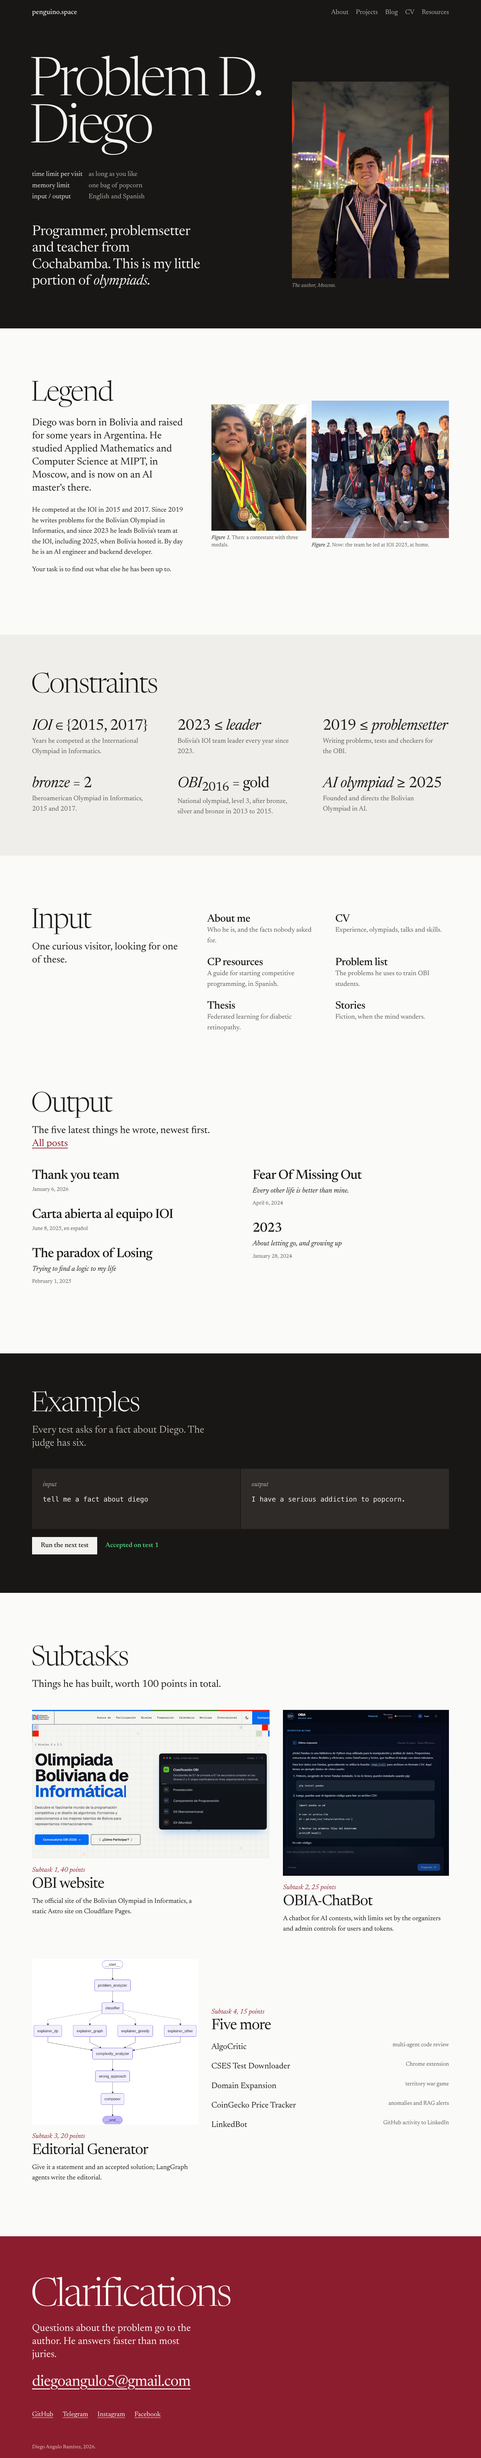
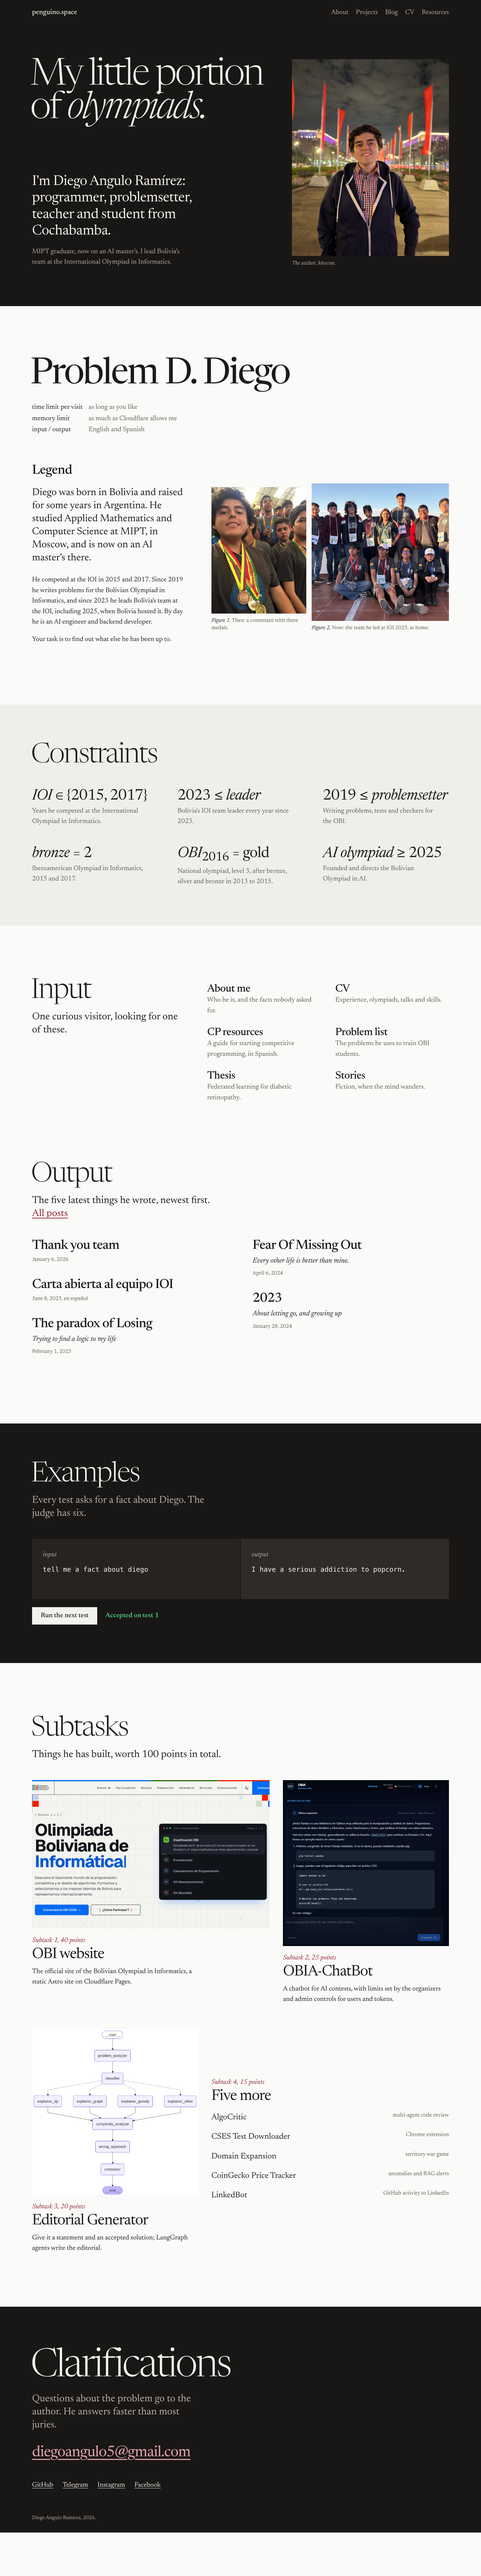
Open option D with the rotating headline and darken its footer

diff --git a/design-options/d-olimpiada.html b/design-options/d-olimpiada.html
@@ -45,19 +45,26 @@ h2.sec { font-weight: 300; font-size: clamp(44px, 1rem + 4.6vw, 104px); line-hei
 .bar nav a { text-decoration: none; color: var(--field-muted); min-height: 44px; display: inline-flex; align-items: center; }
 .bar nav a:hover { color: var(--field-ink); }
 
-.hero { display: grid; grid-template-columns: 1.5fr 1fr; gap: clamp(32px, 5vw, 88px); padding-top: clamp(48px, 7vw, 104px); padding-bottom: clamp(56px, 8vw, 120px); align-items: end; }
-.hero h1 { font-weight: 300; font-size: clamp(64px, 1rem + 10vw, 184px); line-height: .88; letter-spacing: -.045em; margin: 0 0 0 -.05em; }
-.limits { display: grid; grid-template-columns: auto 1fr; gap: 2px 18px; margin: clamp(28px, 4vw, 48px) 0 0; color: var(--field-muted); font-size: clamp(17px, 1rem + .3vw, 21px); }
-.limits dt { color: var(--field-ink); }
+.hero { display: grid; grid-template-columns: 1.5fr 1fr; gap: clamp(32px, 4vw, 56px) clamp(32px, 5vw, 88px); padding-top: clamp(48px, 7vw, 104px); padding-bottom: clamp(56px, 8vw, 120px); align-items: end; }
+.hero h1 { grid-column: 1; grid-row: 1; align-self: start; font-weight: 300; font-size: clamp(52px, 1rem + 6.6vw, 124px); line-height: .9; letter-spacing: -.045em; margin: 0 0 0 -.05em; }
+.hero h1 .rot { font-style: italic; }
+.limits { display: grid; grid-template-columns: auto 1fr; gap: 2px 18px; margin: clamp(20px, 3vw, 32px) 0 0; color: var(--muted); font-size: clamp(17px, 1rem + .3vw, 21px); }
+.limits dt { color: var(--ink); }
+.problem { padding-top: var(--gap); }
+.problem h2 { font-weight: 400; font-size: clamp(48px, 1rem + 6.4vw, 128px); line-height: .9; letter-spacing: -.04em; margin: 0 0 0 -.05em; }
+.problem .note { color: var(--muted); font-style: italic; margin: 18px 0 0; max-width: 52ch; }
+h2.sub { font-weight: 500; font-size: clamp(28px, 1rem + 1.6vw, 44px); letter-spacing: -.02em; line-height: 1; margin: 0; }
 .limits dd { margin: 0; }
-.hero__lead { font-size: clamp(26px, 1rem + 1.8vw, 44px); line-height: 1.18; letter-spacing: -.015em; margin: clamp(36px, 5vw, 64px) 0 0; max-width: 22ch; }
+.hero__lead { font-size: clamp(26px, 1rem + 1.8vw, 44px); line-height: 1.18; letter-spacing: -.015em; margin: 0; max-width: 22ch; align-self: start; }
+.hero__lead + p { color: var(--field-muted); margin: 20px 0 0; max-width: 40ch; }
 .rot { font-style: italic; }
-.hero figure { margin: 0; }
+.hero > div { grid-column: 1; grid-row: 2; align-self: end; }
+.hero figure { margin: 0; grid-column: 2; grid-row: 1 / 3; }
 .hero figure img { width: 100%; aspect-ratio: 4 / 5; object-fit: cover; object-position: 50% 28%; }
 .hero figcaption { color: var(--field-muted); font-size: 16px; font-style: italic; padding-top: 10px; }
 
 /* ---------- Legend with figures ---------- */
-.legend { display: grid; grid-template-columns: .85fr 1.3fr; gap: clamp(32px, 5vw, 88px); padding-top: var(--gap); align-items: start; }
+.legend { display: grid; grid-template-columns: .85fr 1.3fr; gap: clamp(32px, 5vw, 88px); padding-top: clamp(48px, 6vw, 88px); align-items: start; }
 .legend .text p { margin: 0 0 1em; max-width: 54ch; }
 .legend .text p:first-of-type { font-size: clamp(22px, 1rem + 1vw, 30px); line-height: 1.3; }
 .figs { display: grid; grid-template-columns: 1fr 1.45fr; gap: 16px; align-items: end; margin-top: clamp(0px, 4vw, 64px); }
@@ -132,13 +139,13 @@ h2.sec { font-weight: 300; font-size: clamp(44px, 1rem + 4.6vw, 104px); line-hei
 .t4 li a:hover { color: var(--accent); }
 
 /* ---------- Clarifications ---------- */
-.close { background: var(--accent); color: var(--accent-ink); margin-top: var(--gap); padding: clamp(64px, 9vw, 128px) 0 32px; }
+.close { background: var(--field); color: var(--field-ink); margin-top: var(--gap); padding: clamp(64px, 9vw, 128px) 0 32px; }
 .close h2 { font-weight: 300; font-size: clamp(48px, 1rem + 7vw, 150px); line-height: .9; letter-spacing: -.045em; margin: 0 0 0 -.04em; }
-.close p { font-size: clamp(22px, 1rem + 1vw, 30px); line-height: 1.3; max-width: 30ch; margin: 24px 0 0; }
-.close .mail { display: inline-block; margin-top: 28px; font-size: clamp(24px, 1rem + 2vw, 48px); letter-spacing: -.02em; }
+.close p { color: var(--field-muted); font-size: clamp(22px, 1rem + 1vw, 30px); line-height: 1.3; max-width: 30ch; margin: 24px 0 0; }
+.close .mail { color: #e8a7b2; display: inline-block; margin-top: 28px; font-size: clamp(24px, 1rem + 2vw, 48px); letter-spacing: -.02em; }
 .close ul { list-style: none; padding: 0; margin: 40px 0 0; display: flex; flex-wrap: wrap; gap: 0 28px; }
 .close ul a { display: inline-flex; min-height: 44px; align-items: center; }
-.close small { display: block; margin-top: 64px; opacity: .8; font-size: 15px; }
+.close small { display: block; margin-top: 64px; color: var(--field-muted); font-size: 15px; }
 
 /* ---------- Entrances (content stays visible without script) ---------- */
 .js [data-in] { opacity: 0; transform: translateY(24px); transition: opacity .7s var(--ease), transform .7s var(--ease); }
@@ -146,6 +153,7 @@ h2.sec { font-weight: 300; font-size: clamp(44px, 1rem + 4.6vw, 104px); line-hei
 
 @media (max-width: 900px) {
   .hero, .legend, .input { grid-template-columns: 1fr; }
+  .hero h1, .hero > div, .hero figure { grid-column: 1; grid-row: auto; }
   .hero figure { max-width: 340px; }
   .cons { grid-template-columns: 1fr 1fr; }
   .posts { columns: 1; }
@@ -171,23 +179,28 @@ h2.sec { font-weight: 300; font-size: clamp(44px, 1rem + 4.6vw, 104px); line-hei
   </header>
 
   <section class="wrap hero" aria-labelledby="title">
+    <h1 id="title">My little portion<br>of <span class="rot" data-rotate='["Internet.","Bolivia.","olympiads.","thoughts.","pizza."]'>Internet.</span></h1>
     <div>
-      <h1 id="title">Problem D.<br>Diego</h1>
-      <dl class="limits">
-        <dt>time limit per visit</dt><dd>as long as you like</dd>
-        <dt>memory limit</dt><dd>one bag of popcorn</dd>
-        <dt>input / output</dt><dd>English and Spanish</dd>
-      </dl>
-      <p class="hero__lead">Programmer, problemsetter and teacher from Cochabamba. This is my little portion of <span class="rot" data-rotate='["Internet.","Bolivia.","olympiads.","thoughts.","pizza."]'>Internet.</span></p>
+      <p class="hero__lead">I'm Diego Angulo Ramírez: programmer, problemsetter, teacher and student from Cochabamba.</p>
+      <p>MIPT graduate, now on an AI master's. I lead Bolivia's team at the International Olympiad in Informatics.</p>
     </div>
     <figure><img src="../assets/img/diego_prime.jpg" alt="Diego in Moscow at night" width="960" height="1280"><figcaption>The author, Moscow.</figcaption></figure>
   </section>
 </div>
 
 <main>
+  <section class="wrap problem" aria-labelledby="h-problem">
+    <h2 id="h-problem" data-in>Problem D. Diego</h2>
+    <dl class="limits" data-in>
+      <dt>time limit per visit</dt><dd>as long as you like</dd>
+      <dt>memory limit</dt><dd>as much as Cloudflare allows me</dd>
+      <dt>input / output</dt><dd>English and Spanish</dd>
+    </dl>
+  </section>
+
   <section class="wrap legend" aria-labelledby="h-legend">
     <div class="text" data-in>
-      <h2 class="sec" id="h-legend">Legend</h2>
+      <h2 class="sub" id="h-legend">Legend</h2>
       <p style="margin-top: 28px">Diego was born in Bolivia and raised for some years in Argentina. He studied Applied Mathematics and Computer Science at MIPT, in Moscow, and is now on an AI master's there.</p>
       <p>He competed at the IOI in 2015 and 2017. Since 2019 he writes problems for the Bolivian Olympiad in Informatics, and since 2023 he leads Bolivia's team at the IOI, including 2025, when Bolivia hosted it. By day he is an AI engineer and backend developer.</p>
       <p>Your task is to find out what else he has been up to.</p>

diff --git a/design-options/README.md b/design-options/README.md
@@ -41,7 +41,8 @@ Diego preferred a mix of B and C (A was rejected). D keeps C's olympiad-statemen
 B's Newsreader type, oxblood accent and then/now photo pair, and fills the page with real
 content from the CV and About page:
 
-- Dark header field: "Problem D. Diego", time/memory/language limits, rotating word, portrait.
+- Dark header field: "My little portion of <rotating word>", short bio, portrait.
+- "Problem D. Diego" opens the statement below the header, with time/memory/language limits.
 - Legend: short bio with Figure 1 (medals, then) and Figure 2 (IOI 2025 team, now).
 - Constraints: real milestones written as inequalities (IOI 2015 and 2017, team leader since
   2023, problemsetter since 2019, two Iberoamerican bronzes, OBI gold 2016, AI olympiad 2025).
@@ -49,9 +50,11 @@ content from the CV and About page:
 - Output: latest posts in two columns.
 - Examples: the facts as sample tests, with "Run the next test" and an Accepted verdict.
 - Subtasks: projects worth 100 points (40/25/20 and 15 for the other five).
-- Clarifications: oxblood footer with the email large.
+- Clarifications: dark footer (same field as the header) with the email large.
 
-Feedback so far: B and C liked, A disliked, C alone felt too empty and plain.
+Feedback so far: B and C liked, A disliked, C alone felt too empty and plain. On D: the
+oxblood footer was disliked, and the page must open with the rotating "My little portion of"
+headline rather than "Problem D. Diego".
 
 ## Next steps
 
